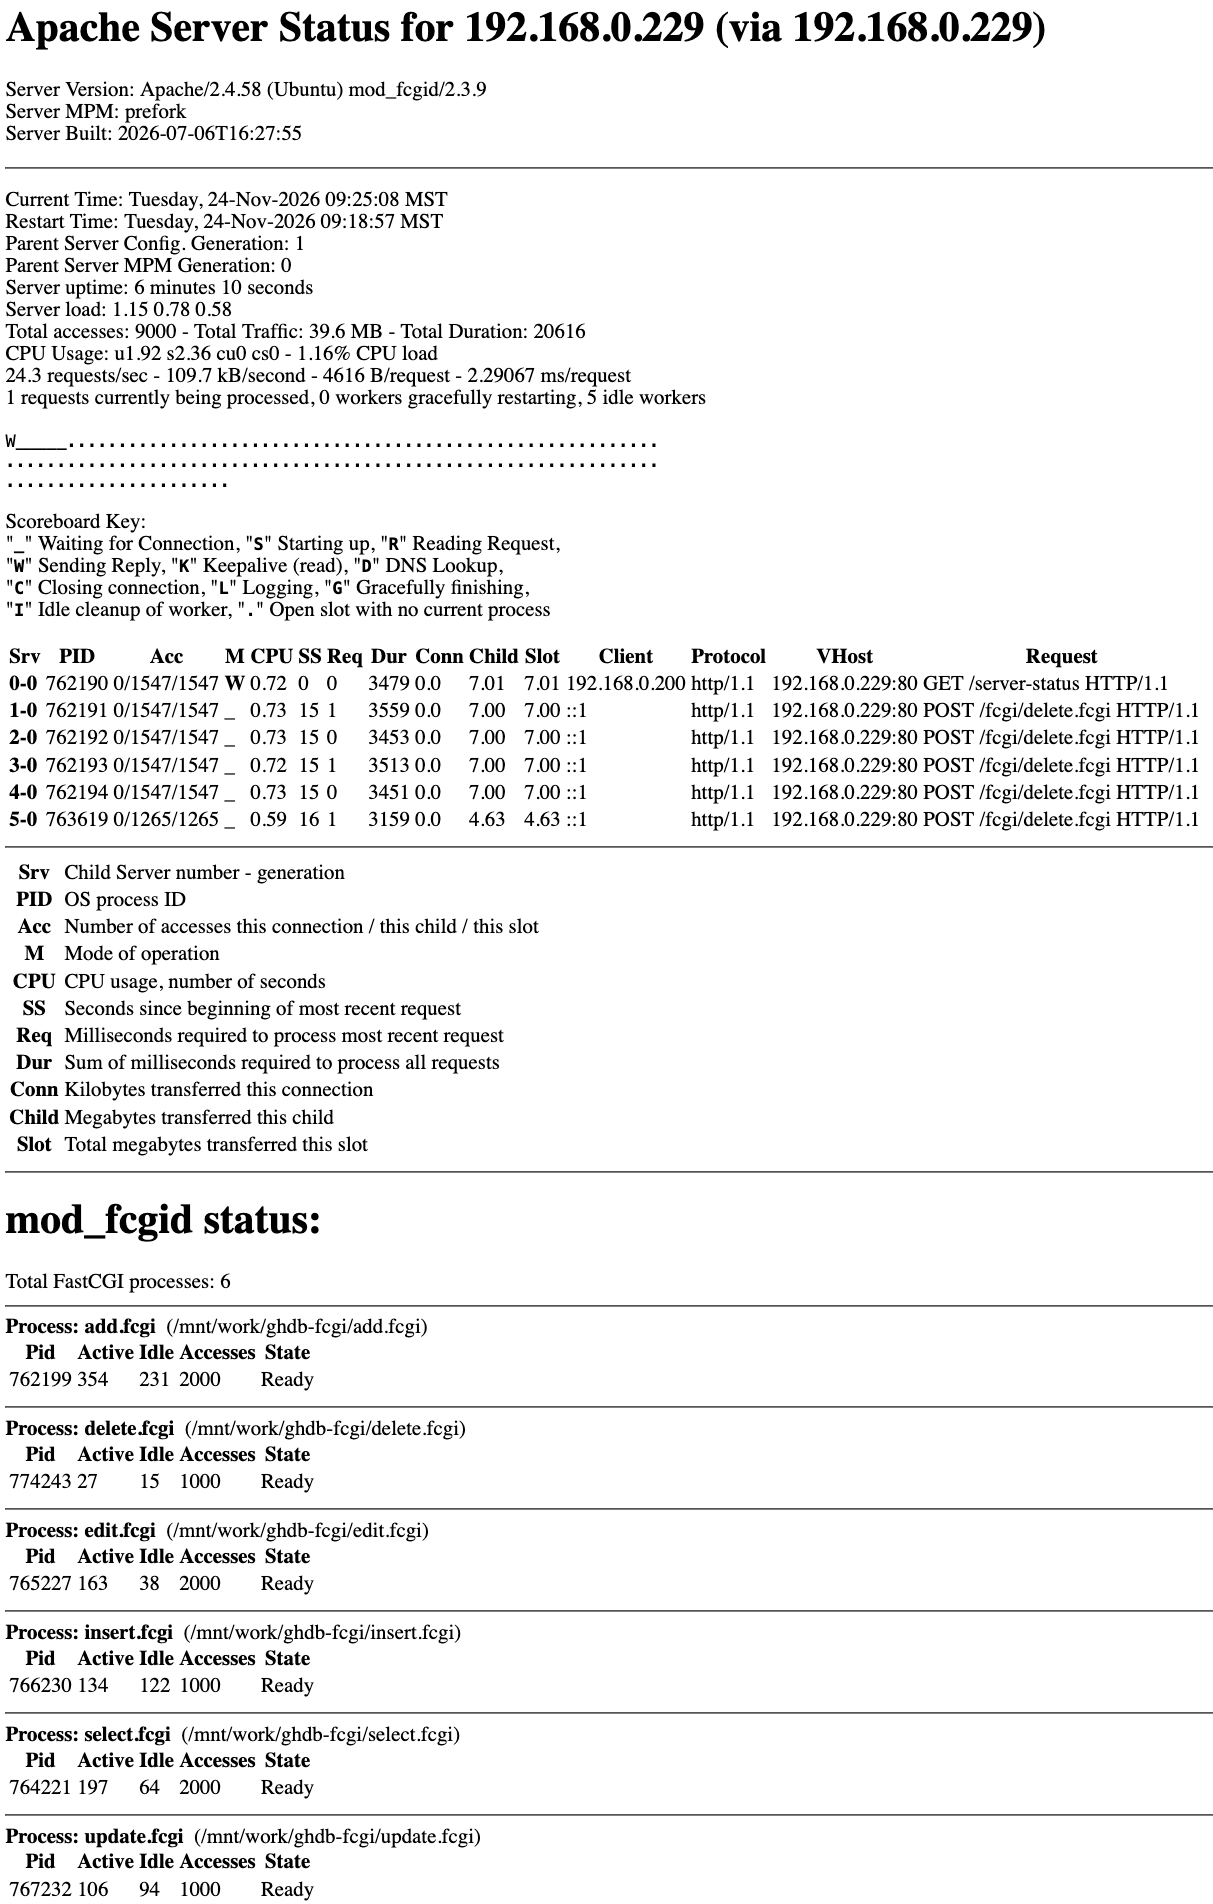
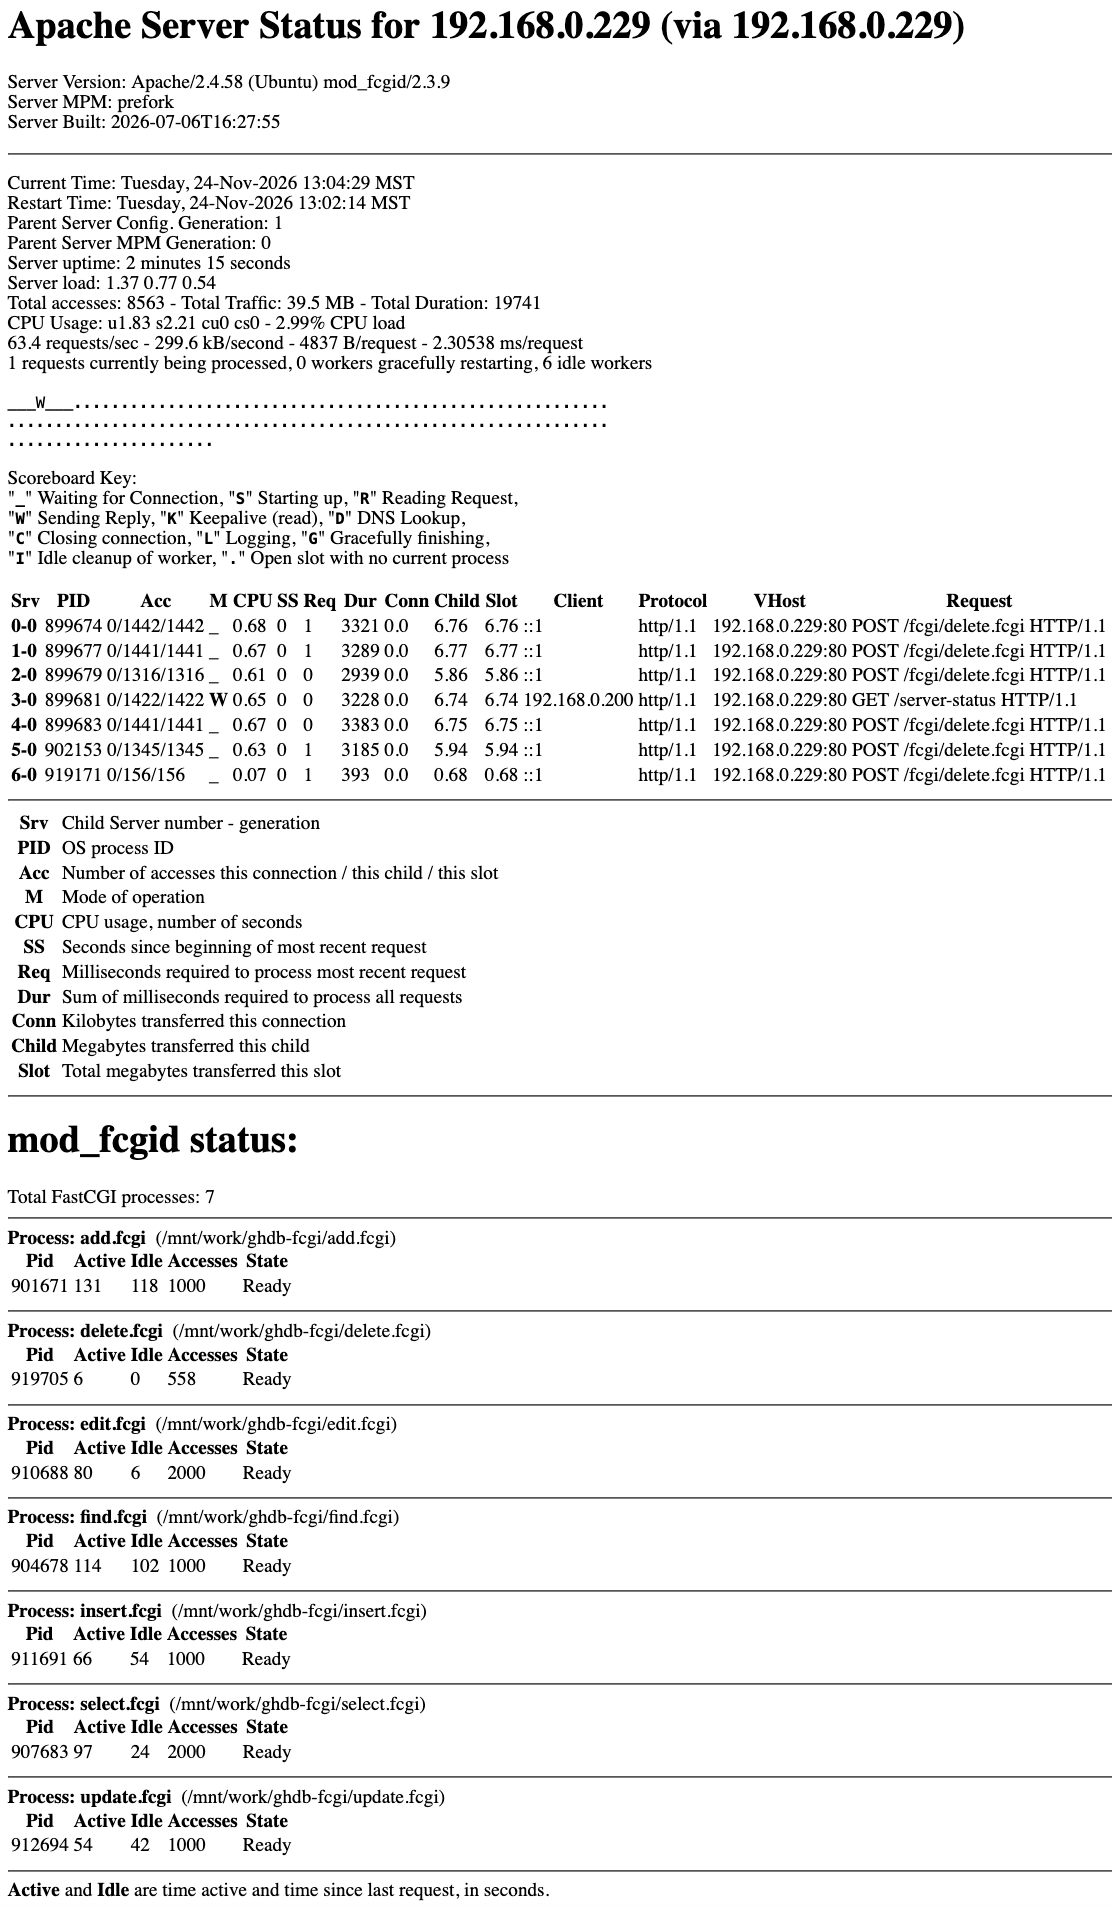
Updated README.md.

Changed region(s): [[0.0, 0.0, 1.0, 1.0]]

diff --git a/README.md b/README.md
@@ -1,2 +1,268 @@
-# ghdb-fcgi
-Green House Database using C and Fast CGI
+# ghdb-fcgi #
+**Green House Database using C and Fast CGI**
+
+This is an experiment to write the Green House Database application (https://github.com/donaldbales/ghdb originally a curses application) as a C Programming Language and Fast CGI web-based application. Admittedly ugly by modern web application practices, this is how we built them in the beginning (1993). It consist of only two HTML templates, one for a list view and a second for a form view. It uses no cascading style sheets (CSS) or Javascript. It is fully functional. The first round was to write it as a C cgi-bin web-based application. This is its transformation into a Fast CGI application. The Fast CGI version is about %40 faster than its cgi-bin counterpart.
+
+## Interface ##
+### List View ###
+![Screenshot](./images/ghdblist.png)
+### Form View ###
+![Screenshot](./images/ghdbform.png)
+
+There are two HTML files. 
+
+From these you can:
+* Add a record
+* Find one or more SQL expression matching records
+* Edit a record
+* Delete a record
+* Import TSV records
+* Export TSV records
+
+
+## Database ##
+
+```
+mysql> desc ghdb;
++-----------------------+--------------+------+-----+---------+-------+
+| Field                 | Type         | Null | Key | Default | Extra |
++-----------------------+--------------+------+-----+---------+-------+
+| plant_name            | varchar(30)  | NO   | PRI | NULL    |       |
+| latin_name            | varchar(30)  | YES  |     | NULL    |       |
+| height                | decimal(5,2) | YES  |     | NULL    |       |
+| width                 | decimal(5,2) | YES  |     | NULL    |       |
+| planting_depth        | decimal(5,2) | YES  |     | NULL    |       |
+| seed_size             | decimal(5,2) | YES  |     | NULL    |       |
+| seed_need_light       | varchar(3)   | YES  |     | NULL    |       |
+| seed_scarification    | varchar(3)   | YES  |     | NULL    |       |
+| ph                    | decimal(5,2) | YES  |     | NULL    |       |
+| ec                    | decimal(5,2) | YES  |     | NULL    |       |
+| day_light_interval    | decimal(5,0) | YES  |     | NULL    |       |
+| photoperiod_hours     | decimal(5,0) | YES  |     | NULL    |       |
+| light_lower           | decimal(5,0) | YES  |     | NULL    |       |
+| light_optimal         | decimal(5,0) | YES  |     | NULL    |       |
+| light_upper           | decimal(5,0) | YES  |     | NULL    |       |
+| nitrogen_lower        | decimal(5,0) | YES  |     | NULL    |       |
+| nitrogen_optimal      | decimal(5,0) | YES  |     | NULL    |       |
+| nitrogen_upper        | decimal(5,0) | YES  |     | NULL    |       |
+| phosphorus_lower      | decimal(5,0) | YES  |     | NULL    |       |
+| phosphorus_optimal    | decimal(5,0) | YES  |     | NULL    |       |
+| phosphorus_upper      | decimal(5,0) | YES  |     | NULL    |       |
+| potassium_lower       | decimal(5,0) | YES  |     | NULL    |       |
+| potassium_optimal     | decimal(5,0) | YES  |     | NULL    |       |
+| potassium_upper       | decimal(5,0) | YES  |     | NULL    |       |
+| germination_lower     | decimal(5,0) | YES  |     | NULL    |       |
+| germination_normal    | decimal(5,0) | YES  |     | NULL    |       |
+| germination_upper     | decimal(5,0) | YES  |     | NULL    |       |
+| transplanting_lower   | decimal(5,0) | YES  |     | NULL    |       |
+| transplanting_optimal | decimal(5,0) | YES  |     | NULL    |       |
+| transplanting_upper   | decimal(5,0) | YES  |     | NULL    |       |
+| maturity_lower        | decimal(5,0) | YES  |     | NULL    |       |
+| maturity_optimal      | decimal(5,0) | YES  |     | NULL    |       |
+| maturity_upper        | decimal(5,0) | YES  |     | NULL    |       |
+| frost_tolerance       | varchar(3)   | YES  |     | NULL    |       |
+| flowering             | decimal(5,0) | YES  |     | NULL    |       |
+| pollination_primary   | varchar(30)  | YES  |     | NULL    |       |
+| pollination_secondary | varchar(30)  | YES  |     | NULL    |       |
++-----------------------+--------------+------+-----+---------+-------+
+37 rows in set (0.00 sec)
+
+```
+The underlying database is hosted on MySQL. Prepared INSERT, SELECT, UPDATE, and DELETE SQL statements are used to prevent SQL injection. Since the use of cgi-bin prevents the caching of SQL connections and prepared statements between transactions, the use of prepared statements is slightly slower than using simple SQL statements.
+
+
+## Apache Config ##
+```
+sudo nano /etc/apache2/mods-available/fcgid.conf
+
+<IfModule mod_fcgid.c>
+  FcgidConnectTimeout 20
+  FcgidInitialEnv MYSQL_DB "don"
+  FcgidInitialEnv MYSQL_HOST "192.168.0.222
+  FcgidInitialEnv MYSQL_PWD "password"
+  FcgidInitialEnv MYSQL_USER "don"
+
+  <IfModule mod_mime.c>
+    AddHandler fcgid-script .fcgi
+  </IfModule>
+
+  ScriptAlias /fcgi/ /mnt/work/ghdb-fcgi/
+  <Directory /mnt/work/ghdb-fcgi/>
+    DirectoryIndex select.fcgi
+    SetHandler fcgid-script
+    AllowOverride None
+    Options +ExecCGI -MultiViews +SymLinksIfOwnerMatch
+    Require all granted
+  </Directory>
+</IfModule>
+```
+
+```
+sudo nano /etc/apache2/mods-enabled/status.conf
+
+# Allow server status reports generated by mod_status,
+# with the URL of http://servername/server-status
+# Uncomment and change the "192.0.2.0/24" to allow access from other hosts.
+
+<Location /server-status>
+	SetHandler server-status
+	Require local
+	Require ip 192.168.0.0/24
+</Location>
+
+# Keep track of extended status information for each request
+ExtendedStatus On
+
+# Determine if mod_status displays the first 63 characters of a request or
+# the last 63, assuming the request itself is greater than 63 chars.
+# Default: Off
+#SeeRequestTail On
+
+
+<IfModule mod_proxy.c>
+	# Show Proxy LoadBalancer status in mod_status
+	ProxyStatus On
+</IfModule>
+```
+
+```
+sudo a2enmod fcgid
+sudo a2enmod status
+sudo systemctl restart apache2
+```
+
+## Apache Monitoring ##
+![Screenshot](./images/apache2.png)
+
+
+## cgi-bin to fcgi Transformations ##
+
+All programs had code rearranged so so-called initialization code that only needed to be run once was moved up in each program, the remaining code was put in an FCGI_Accept() loop, with the addition of freeing any dynamically allocated memory.
+
+* add.c and find.c - only reuse the HTML form template.
+
+* delete.c, insert.c, and update.c - reuse the MySQL connection and MySQL prepared statement.
+
+* edit.c and select.c - reuse the HTML templates and MySQL connections.
+ 
+## fcgi Support in the C Programming Language. ##
+
+I looked, but did not find a library of fcgi supporting functions for the C Programming Language, so I wrote them. Here's my minimal set:
+
+```
+/* these function can all be found in file ghdb-cgi-bin.h */
+
+/*
+ Reads a file into a string buffer. Used to read the HTML
+ form and list files, so placeholders can be replaced with 
+ values using strrep().
+*/
+char * get_asset(char *file_name)
+
+/*
+ Reads the POSTed application/x-www-form-urlencoded message 
+ data from stdin parsing the key-value pairs into an array 
+ of struct KEY_VALUE.
+*/
+struct KEY_VALUE * get_post_data(int *key_values_length)
+
+/* 
+ HTML encodes values so they can be used in HTML markup.
+ It replaces: <, >, &, " and ' with &lt;, &gt;, &amp;,
+ &quot; and &apos; respectively.
+*/
+char * html_encode(char *string) 
+
+/*
+ A search and replace function for character strings.
+*/
+char * strrep(char *string, const char *search, const char *replace)
+
+/*
+ URL decodes percent-encoded data from a POSTed HTML form,
+ an application/x-www-form-urlencoded message. 
+*/
+char * url_decode(char *string)
+```
+
+## Developer Techniques ##
+
+When an fcgi (just like a cgi-bin) program is executed, 
+* stdout is sent to the end-users browser, 
+* stderr to the Apache error log (/var/log/apache2/error.log) and 
+* stdin will contain the POSTed application/x-www-form-urlencoded message, which is a set of key-value pairs separated by the & character. For example:
+
+```
+plant_name=Apple&latin_name=Dumpling&height=&width=&planting_depth=&seed_size=&seed_need_light=&seed_scarification=&ph=&ec=&day_light_interval=&photoperiod_hours=&light_lower=0&light_optimal=&light_upper=&nitrogen_lower=&nitrogen_optimal=&nitrogen_upper=&phosphorus_lower=&phosphorus_optimal=&phosphorus_upper=&potassium_lower=&potassium_optimal=&potassium_upper=&germination_lower=&germination_normal=&germination_upper=&transplanting_lower=&transplanting_optimal=&transplanting_upper=&maturity_lower=&maturity_optimal=&maturity_upper=&frost_tolerance=&flowering=&pollination_primary=&pollination_secondary=&submit=Update
+```
+
+Accordingly, you can simulate this behavior while developing a program using a command like the following:
+
+```
+cat Apple.txt | env CONTENT_LENGTH=`stat -c %s Apple.txt` ./select.cgi
+```
+
+Above, I put the key-value pairs in a file named Apple.txt. The command pipes the contents of that file into stdin, next the command sets the content length by stating the file for its length and then executes the select.cgi program.
+
+The entire output of the program, both stdout and stderr show up on your screen. This is a much easier development loop than deploying and executing the binary via a cgi-bin URL.
+
+Similarly, you can simulate a GET response by setting the QUERY_STRING environment variable with the key-value pairs as follows:
+
+```
+env QUERY_STRING="plant_name=Apple&latin_name=Dumpling" ./select.cgi
+```
+
+To see the error messages output once deployed to the cgi-bin directory, you can tail the log file as follows:
+
+```
+tail -f /var/log/apache2/error.log
+```
+
+Since the FAST CGI(fcgi) module suppresses all output to ```stderr``` in the initialization section of the code (up to the first invocation of ```FCGI_Accept()```), I use ```dprint(2, ...)``` instead of ```fprintf(stderr, ...)``` in the initialization section. This uses the ```stderr``` file descriptor, 2, bypassing the macro substitution made by the fcgi module, so the error messages show up in the apache2 error log.
+
+##  Memory Management ##
+All dynamically allocated memory used during the ```FCGI_Accept()``` loop is freed at the end of the loop, so there is no memory leakage.
+
+
+## Links ##
+
+### cgi-bin ###
+
+RFC 3875: The Common Gateway Interface (CGI) Version
+https://www.rfc-editor.org/info/rfc3875/#section-4.1
+
+Apache HTTP Server Tutorial: Dynamic Content with CGI
+https://httpd.apache.org/docs/current/howto/cgi.html
+
+### fcgi ###
+
+What Replaced CGI Scripts?
+https://www.worldwidemart.com/history/what-replaced-cgi/
+
+The Fast Common Gateway Interface
+https://fastcgi-archives.github.io/fcgi2/doc/fastcgi-prog-guide/ch1intro.htm
+
+FastCGI Developer's Kit
+https://fastcgi-archives.github.io/FastCGI_Developers_Kit_FastCGI.html
+
+mod_fastcgi Installation on Apache2
+https://fastcgi-archives.github.io/mod_fastcgi/INSTALL.html
+
+Apache Module mod_fcgid
+https://httpd.apache.org/mod_fcgid/mod/mod_fcgid.html
+
+
+
+### GHDB ###
+https://github.com/donaldbales/ghdb
+
+## Feedback ##
+You're welcome to contact me via email at don@donaldbales.com
+  
+
+
+
+
+
+
+
